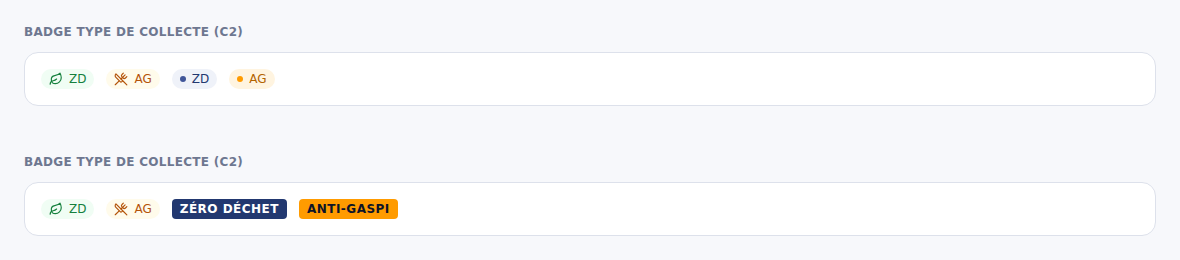
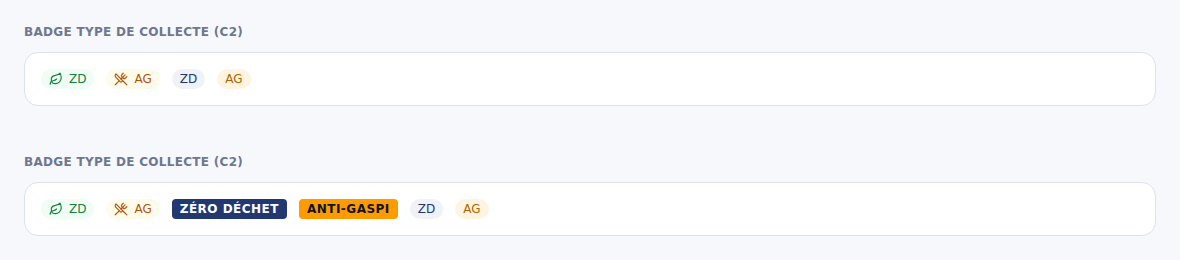
fix(ui): R-UI-2 — revues : Transporteurs en badge primary/action (rendu d'avant), graphie CDC « Zéro-Déchet » gardée dans l'export synthèse, flux « Cartons » comme en base (D45), testid réservé au badge de fiche, import registre
Claude-Session: https://claude.ai/code/session_01A11qLhSi262qxT36rfTiHs

Changed region(s): [[0.1525, 0.2462, 0.2441, 0.3385], [0.3356, 0.7692, 0.4271, 0.8615]]

diff --git a/packages/plateforme/src/lib/libelles/type-collecte.ts b/packages/plateforme/src/lib/libelles/type-collecte.ts
@@ -18,6 +18,17 @@ export const LIBELLE_TYPE_COLLECTE: Record<string, string> = {
   anti_gaspi: 'Anti-Gaspi',
 } satisfies Record<TypeCollecte, string>;
 
+/**
+ * Graphie du CDC (« Zéro-Déchet », §12 l.287) — gardée là où elle était déjà
+ * affichée avant R-UI-2 (export synthèse PDF : modale et ligne de filtre).
+ * D38 OUVERT : l'app affiche « Zéro Déchet », les exports synthèse
+ * « Zéro-Déchet » ; une seule des deux maps survivra à l'arbitrage.
+ */
+export const LIBELLE_TYPE_COLLECTE_CDC: Record<string, string> = {
+  zero_dechet: 'Zéro-Déchet',
+  anti_gaspi: 'Anti-Gaspi',
+} satisfies Record<TypeCollecte, string>;
+
 export const LIBELLE_COURT_TYPE_COLLECTE: Record<string, string> = {
   zero_dechet: 'ZD',
   anti_gaspi: 'AG',
@@ -27,8 +38,10 @@ export const LIBELLE_COURT_TYPE_COLLECTE: Record<string, string> = {
  * Couleurs du badge de type — arbitrage Q1 OUVERT : DEUX codes couleur
  * cohabitent, tous deux tenus ici en attendant l'arbitrage.
  * - pastille (listes Collectes Admin / gestionnaire / historique, onglet
- *   Collectes de la fiche client, liste Transporteurs) : ZD vert `success` /
- *   AG ambre `warning` — `VARIANT_TYPE_COLLECTE` ;
+ *   Collectes de la fiche client) : ZD vert `success` / AG ambre `warning` —
+ *   `VARIANT_TYPE_COLLECTE` ;
+ * - badge CDC (liste Transporteurs) : ZD navy `primary` / AG orange `action`,
+ *   sans icône — `VARIANT_CDC_TYPE_COLLECTE` (conforme §10 l.140) ;
  * - aplat (sur-titre des fiches collecte Admin et client, §06.04 Q2 / §06.06) :
  *   ZD navy primary-700 texte blanc / AG orange accent-500 texte primary-950 —
  *   `CLASSES_APLAT_TYPE_COLLECTE`.
@@ -38,6 +51,11 @@ export const VARIANT_TYPE_COLLECTE: Record<string, Variant> = {
   zero_dechet: 'success',
   anti_gaspi: 'warning',
 } satisfies Record<TypeCollecte, Variant>;
+
+export const VARIANT_CDC_TYPE_COLLECTE: Record<string, 'primary' | 'action'> = {
+  zero_dechet: 'primary',
+  anti_gaspi: 'action',
+} satisfies Record<TypeCollecte, 'primary' | 'action'>;
 
 export const CLASSES_APLAT_TYPE_COLLECTE: Record<string, string> = {
   zero_dechet: 'bg-savr-primary-700 text-savr-white',
@@ -88,13 +106,25 @@ export function libelleCourtTypeCollecte(
   return LIBELLE_COURT_TYPE_COLLECTE[t] ?? t;
 }
 
-/** « Zéro Déchet (ZD) » / « Anti-Gaspi (AG) ». */
-export function libelleCompletTypeCollecte(
+/** Graphie CDC « Zéro-Déchet » (exports synthèse, D38 ouvert). */
+export function libelleCdcTypeCollecte(
   type: string | null | undefined,
 ): string {
   const t = normaliserTypeCollecte(type);
   if (!t) return '—';
-  const long = LIBELLE_TYPE_COLLECTE[t];
+  return LIBELLE_TYPE_COLLECTE_CDC[t] ?? t;
+}
+
+/** « Zéro Déchet (ZD) » / « Anti-Gaspi (AG) » (`graphie: 'cdc'` → « Zéro-Déchet (ZD) »). */
+export function libelleCompletTypeCollecte(
+  type: string | null | undefined,
+  graphie: 'app' | 'cdc' = 'app',
+): string {
+  const t = normaliserTypeCollecte(type);
+  if (!t) return '—';
+  const long = (
+    graphie === 'cdc' ? LIBELLE_TYPE_COLLECTE_CDC : LIBELLE_TYPE_COLLECTE
+  )[t];
   return long ? `${long} (${LIBELLE_COURT_TYPE_COLLECTE[t]})` : t;
 }
 

diff --git a/packages/plateforme/src/components/ui/badges.r-ui-2.test.tsx b/packages/plateforme/src/components/ui/badges.r-ui-2.test.tsx
@@ -10,16 +10,30 @@ import { FactureStatutBadge } from './facture-statut-badge';
 import { TypeCollecteBadge } from './type-collecte-badge';
 
 describe('R-UI-2 — TypeCollecteBadge (C2)', () => {
+  it('forme="badge" (Transporteurs) : ZD primary / AG action, sans icône', () => {
+    const { rerender } = render(
+      <TypeCollecteBadge type="zero_dechet" forme="badge" />,
+    );
+    let badge = screen.getByText('ZD').closest('span')!;
+    expect(badge.querySelector('svg')).toBeNull();
+    const zd = badge.className;
+    rerender(<TypeCollecteBadge type="anti_gaspi" forme="badge" />);
+    badge = screen.getByText('AG').closest('span')!;
+    expect(badge.className).not.toBe(zd);
+  });
+
   it('forme="pastille" par défaut : ZD vert / AG ambre, icône, sans point', () => {
     const { rerender } = render(<TypeCollecteBadge type="zero_dechet" />);
-    let badge = screen.getByTestId('badge-type-collecte');
+    // Pas d'identifiant de test sur la pastille (réservé à l'en-tête de fiche).
+    expect(screen.queryByTestId('badge-type-collecte')).toBeNull();
+    let badge = screen.getByText('ZD').closest('span')!;
     expect(badge.textContent).toBe('ZD');
     expect(badge.className).toContain('bg-savr-success-subtle');
     expect(badge.querySelector('svg')).not.toBeNull();
     expect(badge.querySelector('.rounded-full')).toBeNull();
 
     rerender(<TypeCollecteBadge type="anti_gaspi" />);
-    badge = screen.getByTestId('badge-type-collecte');
+    badge = screen.getByText('AG').closest('span')!;
     expect(badge.textContent).toBe('AG');
     expect(badge.className).toContain('bg-savr-warning-subtle');
   });
@@ -44,7 +58,7 @@ describe('R-UI-2 — TypeCollecteBadge (C2)', () => {
 
   it('type inconnu : valeur brute, couleur neutre', () => {
     render(<TypeCollecteBadge type="autre" />);
-    const badge = screen.getByTestId('badge-type-collecte');
+    const badge = screen.getByText('autre').closest('span')!;
     expect(badge.textContent).toBe('autre');
     expect(badge.className).toContain('bg-savr-neutral-100');
   });

diff --git a/packages/plateforme/src/components/ui/type-collecte-badge.tsx b/packages/plateforme/src/components/ui/type-collecte-badge.tsx
@@ -6,6 +6,7 @@ import {
   libelleCourtTypeCollecte,
   libelleTypeCollecte,
   normaliserTypeCollecte,
+  VARIANT_CDC_TYPE_COLLECTE,
   variantTypeCollecte,
 } from '@/lib/libelles/type-collecte';
 
@@ -16,14 +17,18 @@ import {
 // - `forme="pastille"` (défaut) : pilule ZD vert / AG ambre + icône, libellé
 //   court ZD / AG — listes ;
 // - `forme="plein"` : aplat ZD navy / AG orange, majuscules, libellé long —
-//   sur-titre des fiches collecte (§06.04 Q2).
+//   sur-titre des fiches collecte (§06.04 Q2) ;
+// - `forme="badge"` : Badge ZD `primary` / AG `action`, sans icône, libellé
+//   court — liste Transporteurs (rendu d'avant R-UI-2, conforme §10 l.140).
+// `data-testid="badge-type-collecte"` : forme `plein` seule (en-tête de fiche),
+// pour ne pas dupliquer l'identifiant dans les listes.
 export function TypeCollecteBadge({
   type,
   forme = 'pastille',
   className,
 }: {
   type: string;
-  forme?: 'pastille' | 'plein';
+  forme?: 'pastille' | 'plein' | 'badge';
   className?: string;
 }) {
   if (forme === 'plein') {
@@ -40,13 +45,24 @@ export function TypeCollecteBadge({
       </span>
     );
   }
+  if (forme === 'badge') {
+    const t = normaliserTypeCollecte(type);
+    return (
+      <Badge
+        variant={(t && VARIANT_CDC_TYPE_COLLECTE[t]) || 'primary'}
+        dot={false}
+        className={className}
+      >
+        {libelleCourtTypeCollecte(type)}
+      </Badge>
+    );
+  }
   const ag = normaliserTypeCollecte(type) === 'anti_gaspi';
   const Icone = ag ? UtensilsCrossed : Leaf;
   return (
     <Badge
       variant={variantTypeCollecte(type)}
       dot={false}
-      data-testid="badge-type-collecte"
       className={className}
     >
       <Icone className="h-3.5 w-3.5" aria-hidden="true" />

diff --git a/packages/plateforme/src/lib/registre/registre.ts b/packages/plateforme/src/lib/registre/registre.ts
@@ -4,6 +4,10 @@ import { erreurInterne } from '@/lib/api-helpers.js';
 import { estUuid, listeCsv, parmi } from '@/lib/filtre-csv.js';
 import { lireTri } from '@/lib/tri-liste.js';
 import { parseLimit, parsePage } from '@/lib/pagination.js';
+import {
+  FLUX_ZD_CODES as FLUX_ORDER,
+  LIBELLE_FLUX,
+} from '@/lib/libelles/flux.js';
 
 // ---------------------------------------------------------------------------
 // Registre réglementaire ZD (§06.03) — types, filtres, requête.
@@ -30,10 +34,6 @@ export function isRegistreRole(role: AnyRole): boolean {
 
 // Les 5 flux ZD V1, dans l'ordre d'affichage (badges + colonnes CSV) : source
 // unique `lib/libelles/flux` (R-UI-2 C12), ré-exportée sous les noms historiques.
-import {
-  FLUX_ZD_CODES as FLUX_ORDER,
-  LIBELLE_FLUX,
-} from '@/lib/libelles/flux.js';
 
 export { FLUX_ORDER };
 export const FLUX_LABELS: Record<string, string> = LIBELLE_FLUX;

diff --git a/packages/plateforme/src/lib/libelles/flux.ts b/packages/plateforme/src/lib/libelles/flux.ts
@@ -4,8 +4,10 @@
  * graphe. Consommé par les dashboards, le registre (écran + CSV + API), la
  * synthèse PDF, la fiche collecte Admin et les loaders.
  *
- * Libellés = colonne `nom` du seed `flux_dechets` (§04 Data Model) : « Carton »
- * au singulier comme au CDC.
+ * Libellés = colonne `nom` du seed `flux_dechets` en base (« Cartons »), affichée
+ * aussi par le CSV Pesées, les bordereaux PDF et les e-mails. Le CDC §04 écrit
+ * « Carton » : divergence D45 en attente d'arbitrage Val — une seule ligne à
+ * changer ici (+ seed) après décision.
  */
 
 export interface FluxZd {
@@ -32,7 +34,7 @@ export type FluxZdCode = (typeof FLUX_ZD_CODES)[number];
 export const LIBELLE_FLUX: Record<FluxZdCode, string> = {
   biodechet: 'Biodéchets',
   emballage: 'Emballages',
-  carton: 'Carton',
+  carton: 'Cartons',
   verre: 'Verre',
   dechet_residuel: 'Déchet résiduel',
 };

diff --git a/packages/plateforme/src/lib/libelles/flux.test.ts b/packages/plateforme/src/lib/libelles/flux.test.ts
@@ -23,11 +23,11 @@ describe('R-UI-2 C12 — lib/libelles/flux', () => {
     expect(FLUX_ZD.map((f) => f.code)).toEqual([...FLUX_ZD_CODES]);
   });
 
-  it('libellés du CDC (« Carton » au singulier)', () => {
+  it('libellés = `nom` du seed en base (« Cartons », D45 ouverte)', () => {
     expect(FLUX_ZD.map((f) => f.label)).toEqual([
       'Biodéchets',
       'Emballages',
-      'Carton',
+      'Cartons',
       'Verre',
       'Déchet résiduel',
     ]);
@@ -41,7 +41,7 @@ describe('R-UI-2 C12 — lib/libelles/flux', () => {
   });
 
   it('fallback : absent → « — », inconnu → valeur brute', () => {
-    expect(libelleFlux('carton')).toBe('Carton');
+    expect(libelleFlux('carton')).toBe('Cartons');
     expect(libelleFlux(null)).toBe('—');
     expect(libelleFlux(undefined)).toBe('—');
     expect(libelleFlux('plastique')).toBe('plastique');

diff --git a/packages/plateforme/src/lib/dashboards/synthese-snapshot.ts b/packages/plateforme/src/lib/dashboards/synthese-snapshot.ts
@@ -29,7 +29,7 @@ import {
 } from './attributions-ag.js';
 import {
   libelleCourtTypeCollecte,
-  libelleTypeCollecte,
+  libelleCdcTypeCollecte,
 } from '@/lib/libelles/type-collecte.js';
 
 type Supa = ReturnType<typeof createSupabaseServerClient>;
@@ -689,7 +689,7 @@ function buildFiltresLabel(
     parts.push(`Clients : ${params.clientOrgaIds.length} sélectionné(s)`);
   if (!(includeZd && includeAg)) {
     parts.push(
-      `Type : ${libelleTypeCollecte(includeZd ? 'zero_dechet' : 'anti_gaspi')}`,
+      `Type : ${libelleCdcTypeCollecte(includeZd ? 'zero_dechet' : 'anti_gaspi')}`,
     );
   }
   return parts.length > 0 ? parts.join(' · ') : null;

diff --git a/docs/audit/preuve-visuelle/harnais/entry-r-ui-2-avant.tsx b/docs/audit/preuve-visuelle/harnais/entry-r-ui-2-avant.tsx
@@ -23,8 +23,12 @@ function App() {
         <div className="flex flex-wrap items-center gap-3 rounded-savr-xl border border-savr-neutral-200 bg-savr-white p-4">
           <TypeCollecteBadge type="zero_dechet" />
           <TypeCollecteBadge type="anti_gaspi" />
-          <Badge variant="primary">ZD</Badge>
-          <Badge variant="action">AG</Badge>
+          <Badge variant="primary" dot={false}>
+            ZD
+          </Badge>
+          <Badge variant="action" dot={false}>
+            AG
+          </Badge>
         </div>
       </Section>
       <Section id="tailles" title="Tailles et compteur (C14, C15)">

diff --git a/packages/plateforme/tests/api/registre/registre.m4-2.test.ts b/packages/plateforme/tests/api/registre/registre.m4-2.test.ts
@@ -370,7 +370,7 @@ describe('M4.2 / export_csv_registre_filtre_trace', () => {
     rls.push({ error: null });
 
     const [, ...lignes] = await lignesCsv(await callCsv('?flux=verre,carton'));
-    expect(lignes.map((l) => l.split(';')[0])).toEqual(['Carton', 'Verre']);
+    expect(lignes.map((l) => l.split(';')[0])).toEqual(['Cartons', 'Verre']);
     const insertArgs = (rls.__calls.insert ?? [])[0]?.[0] as
       | Record<string, unknown>
       | undefined;

diff --git a/docs/audit/preuve-visuelle/harnais/entry-r-ui-2-apres.tsx b/docs/audit/preuve-visuelle/harnais/entry-r-ui-2-apres.tsx
@@ -33,6 +33,8 @@ function App() {
           <TypeCollecteBadge type="anti_gaspi" />
           <TypeCollecteBadge type="zero_dechet" forme="plein" />
           <TypeCollecteBadge type="anti_gaspi" forme="plein" />
+          <TypeCollecteBadge type="zero_dechet" forme="badge" />
+          <TypeCollecteBadge type="anti_gaspi" forme="badge" />
         </div>
       </Section>
       <Section id="tailles" title="Tailles et compteur (C14, C15)">

diff --git a/packages/plateforme/src/app/(admin)/admin/transporteurs/page.tsx b/packages/plateforme/src/app/(admin)/admin/transporteurs/page.tsx
@@ -158,7 +158,7 @@ export default function TransporteursPage() {
         <div className="flex flex-wrap gap-1">
           {row.types_collecte && row.types_collecte.length > 0 ? (
             row.types_collecte.map((t) => (
-              <TypeCollecteBadge key={t} type={t} />
+              <TypeCollecteBadge key={t} type={t} forme="badge" />
             ))
           ) : (
             <span className="text-savr-neutral-400">—</span>

diff --git a/packages/plateforme/src/components/dashboards/ExportSyntheseBloc.tsx b/packages/plateforme/src/components/dashboards/ExportSyntheseBloc.tsx
@@ -97,7 +97,7 @@ export function ExportSyntheseBloc({ filters, tab }: Props) {
     setTo(r.periode.to);
   };
 
-  const typeLabel = libelleCompletTypeCollecte(tab);
+  const typeLabel = libelleCompletTypeCollecte(tab, 'cdc');
 
   const inheritedFilters: string[] = [];
   if ((filters?.lieu_ids?.length ?? 0) > 0)
